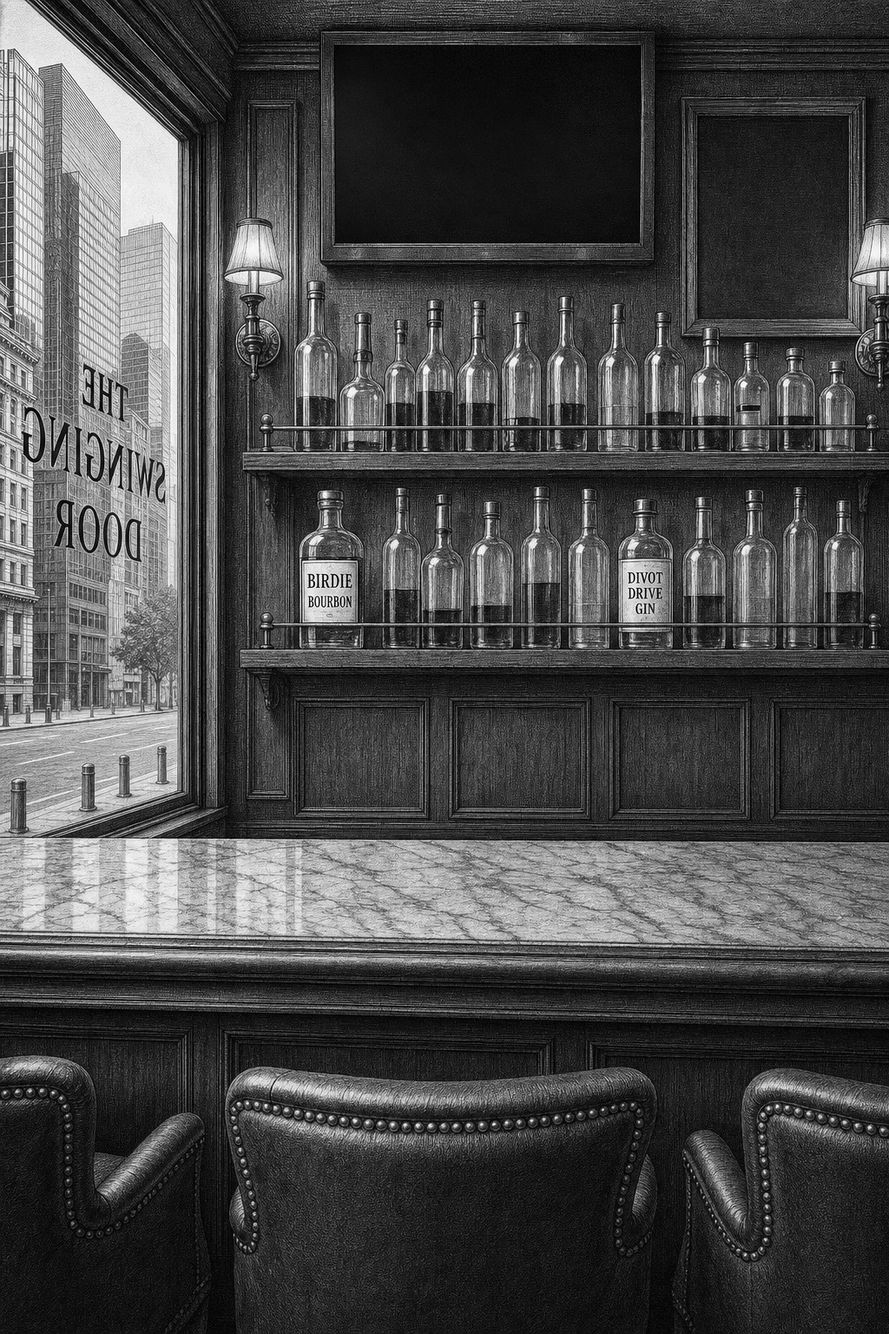
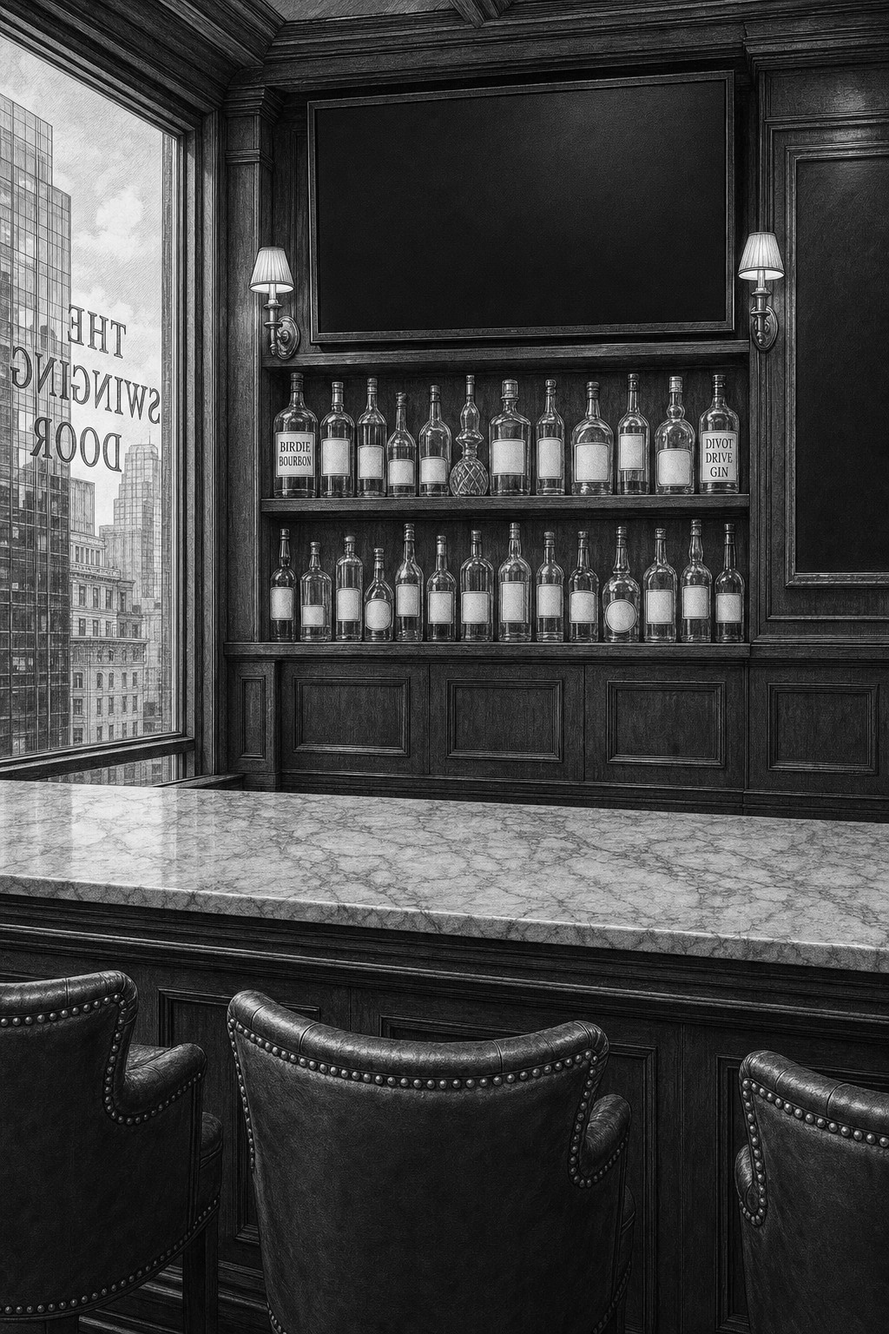
canon: a real 42-inch bar, a bigger television, and a view above the street
Operator rulings from the knockout-1 review, applied to the fences and drawn
into a regenerated set plate:

- THE BAR HEIGHT: the marble crosses each seated gentleman at MID-CHEST, a
  hand's width below the bow tie — a counter at the waist means the room was
  drawn too low, and that is a redraw.
- THE TELEVISION: a LARGE flatscreen, the widest single thing on the back
  wall, spanning the back bar's central bay.
- THE WINDOW: the view begins ABOVE the street floor — building faces only,
  no pavement, no sidewalk, no bollards.
- canon/vision/staging-plate.jpg regenerated from the updated fence text
  (text-only, no old-plate conditioning) and locked to the winner.
- Element bibles (BAR-COUNTER, TELEVISION, WINDOW) record the rulings.

Every canon addition funded by trims; prompt stays under the 30,500 guard;
18/18 assembly checks pass.

diff --git a/canon/MASTER-PROMPT.md b/canon/MASTER-PROMPT.md
@@ -23,9 +23,9 @@ documents disagree, the Harrington vision wins; below it, the authority ladder i
 ```text
 A single-panel gag cartoon drawn like an antique steel engraving: fine pen crosshatching and stippling on every surface — wood grain, knit stitches, fur and feathers laid in individual strokes, glass catching light — with a full tonal range from deep rich blacks through silvery greys to bright paper highlights. Confident contour lines over the hatching. The panel is composed full, corner to corner, and rewards a second look. Black-and-white only; no flat fills, no cel shading, no photographic rendering, no color.
 
-THE ROOM. Inside The Swinging Door: upscale, current, ground-floor, a block off Wall Street, never a dive; polished MARBLE bar top, fine walnut-paneled walls, warm brass, good glassware, handsome furniture: leather armchairs and studded club chairs. ONE LARGE MODERN WINDOW fills the street wall at frame-left — a single tall sheet of clear plate glass, NO small panes, NO muntin bars, NO frosting. Through it, PRESENT-DAY NEW YORK CITY: glass-and-steel towers over older stone facades, a modern street, daylight, and NO people outside. The bar's name is mirrored on the glass as read from inside, SPELLED LETTER BY LETTER — T-H-E S-W-I-N-G-I-N-G D-O-O-R, both G's present; nothing else is lettered on or beyond the glass. Proud back bar of distinct bottle shapes, the SAME collection every day, and the bottles are VISIBLY FILLED TO DIFFERENT LEVELS — some near full, some half, a few low, the liquid line showing through the glass; a row of identical empty bottles is a redraw. EVERY BOTTLE WEARS A SMALL PLAIN PAPER LABEL, and every label except two is BLANK — an empty label-shaped panel with no words, no marks, no fine print. ONLY THE EXACTLY TWO BOTTLES ON THE WHOLE SHELF ARE LETTERED. COUNT THEM: TWO. The left one reads BIRDIE BOURBON and the right one reads DIVOT DRIVE GIN, each name on its own bottle, each large enough to read at a glance, and both standing clear of every head, shoulder and glass with nothing overlapping them. A third lettered bottle, or a repeated name, is a redraw. Shelving: SERVICE side, never drawn behind the gentlemen (see THE BAR IS ONE LEVEL); on the gentlemen's side of the room a bottle appears ONLY in Abby's hand or set down on the marble by her. THE ONLY CHARACTERS IN THE ROOM ARE THIS CARTOON'S CAST; Abby the ONLY bartender, the only other character who ever appears. NO other figures anywhere in the bar, OF ANY SPECIES: no other customers, no staff, none in the mirror; no second dog or bird invented to fill a gap — the room behind the cast is furniture, bottles, panelling and signage only. Single exception in the whole strip: the TELEVISION SCREEN, human beings may appear, broadcast footage. Covers pictures as well as people: no human figure in the room, picture frame or hat included; framed prints on the panelling and any emblem on clothing are NON-FIGURATIVE: architecture, landscape, animals, still life, a ship, a bull, a bottle. On the CAST no emblem at all: no badge, crest, monogram, logo or device on cap, visor, polo, vest, jacket. Barclay's flag pin is the ONLY thing worn on anyone's clothing in this strip.
+THE ROOM. Inside The Swinging Door: upscale, current, a block off Wall Street, never a dive; polished MARBLE bar top, fine walnut-paneled walls, leather armchairs and studded club chairs. ONE LARGE MODERN WINDOW fills the street wall at frame-left — a single tall sheet of clear plate glass, NO small panes, NO muntin bars, NO frosting. Through it, PRESENT-DAY NEW YORK CITY at bar height: building faces, glass-and-steel over older stone, daylight — the view begins ABOVE the street floor, so NO pavement, NO roadway, NO sidewalk, NO bollards and NO people are visible through the glass. The bar's name is mirrored on the glass as read from inside, SPELLED LETTER BY LETTER — T-H-E S-W-I-N-G-I-N-G D-O-O-R, both G's present; nothing else is lettered on or beyond the glass. Proud back bar of distinct bottle shapes, the SAME collection every day, and the bottles are VISIBLY FILLED TO DIFFERENT LEVELS — some near full, some half, a few low, the liquid line showing through the glass; a row of identical empty bottles is a redraw. EVERY BOTTLE WEARS A SMALL PLAIN PAPER LABEL, and every label except two is BLANK — an empty label-shaped panel with no words, no marks, no fine print. ONLY THE EXACTLY TWO BOTTLES ON THE WHOLE SHELF ARE LETTERED. COUNT THEM: TWO. The left one reads BIRDIE BOURBON and the right one reads DIVOT DRIVE GIN, each name on its own bottle, each large enough to read at a glance, and both standing clear of every head, shoulder and glass with nothing overlapping them. A third lettered bottle, or a repeated name, is a redraw. Shelving: SERVICE side, never drawn behind the gentlemen (see THE BAR IS ONE LEVEL); on the gentlemen's side of the room a bottle appears ONLY in Abby's hand or set down on the marble by her. THE ONLY CHARACTERS IN THE ROOM ARE THIS CARTOON'S CAST; Abby the ONLY bartender, the only other character who ever appears. NO other figures anywhere in the bar, OF ANY SPECIES: no other customers, no staff, none in the mirror; no second dog or bird invented to fill a gap — the room behind the cast is furniture, bottles, panelling and signage only. Single exception in the whole strip: the TELEVISION SCREEN, human beings may appear, broadcast footage. Covers pictures as well as people: no human figure in the room, picture frame or hat included; framed prints on the panelling and any emblem on clothing are NON-FIGURATIVE: architecture, landscape, animals, still life, a ship, a bull, a bottle. On the CAST no emblem at all: no badge, crest, monogram, logo or device on cap, visor, polo, vest, jacket. Barclay's flag pin is the ONLY thing worn on anyone's clothing in this strip.
 
-The TV and the chalkboard are OPTIONAL, shown only when they serve THIS cartoon and only on its subject. THE TELEVISION'S FRAME AND SURROUND ARE BARE BLACK PLASTIC WITH NOTHING WRITTEN ON THEM ANYWHERE — no brand, badge, plate or bezel glyphs. IT IS A TELEVISION AND IT IS SWITCHED ON — a wall-mounted flatscreen in a narrow black bezel showing live footage, never a framed print, poster or notice on the panelling. No CNBC bug and no chyron band means it is not a television, and the panel is wrong. The flatscreen over the back bar carries full broadcast grammar: CNBC network bug with LIVE tag, bold-caps headline chyron on a lower-third band, time stamp at right edge. THERE IS NO SECOND LINE OF TEXT ON THE SCREEN — no ticker, no crawl, no strapline under the chyron; the chyron carries every word the screen says and reads [TV]. THE PICTURE ILLUSTRATES THAT VERY HEADLINE: invent the footage this story would actually show, in the same engraved style. Never repeat a picture from a reference image. COUNT THE WORDS INSIDE THE TELEVISION PICTURE: ZERO. The footage itself carries NO lettering anywhere — not on a sign, a shopfront, a licence plate, a road sign, a carton, a label, a receipt, a chart axis, a seat back, a screen or a vehicle; where the scene would carry writing, DRAW THAT SURFACE BLANK. A chalkboard carries menu-shaped jokes in hand-lettered chalk serifs reading exactly and only: [BOARD]. THE BOARD PRICES THE JOKE — it NEVER urges drinking hard, fast or often. All lettering is REAL, correctly spelled English, cleanly drawn, easily readable at a glance — never scribbled, garbled, invented filler, repeated words, or lettering the scene did not ask for. THERE IS A SIZE BELOW WHICH NOTHING IS LETTERED AT ALL: if a word would be drawn smaller than the height of a character's eye, IT IS NOT DRAWN — that surface is completely blank, plain and unmarked. It governs every small object — club faces, watch dials, nameplates, bottle caps, clock numerals. Marks that merely LOOK like writing come back as broken glyphs: a blank club face is correct, a scribbled one a redraw. A PRINTED PROP — bill, receipt, folio, statement, form, slip, menu, boarding pass — CARRIES AT MOST FOUR LINES OF TEXT, each large enough to read at a glance, named by this brief; the rest is BLANK WHITE. There is no fine print in this strip: a receipt with rows of illegible marks is a redraw. AND NOTHING PRINTED LIES ON THE MARBLE: no note card, no slip, no loose receipt, no card reader on the bar top — a printed prop appears ONLY when this brief names one, and then it is held UP IN A HAND, large enough to read. AND NOTHING IS TAGGED: no price tag, swing tag, sticker or ticket hangs from any glass, stem, bottle or held object. Shared nut bowl, napkins, coasters on the marble.
+The TV and the chalkboard are OPTIONAL, shown only when they serve THIS cartoon and only on its subject. THE TELEVISION'S FRAME AND SURROUND ARE BARE BLACK PLASTIC WITH NOTHING WRITTEN ON THEM ANYWHERE — no brand, badge, plate or bezel glyphs. IT IS A TELEVISION AND IT IS SWITCHED ON — a LARGE wall-mounted flatscreen, the WIDEST single thing on the back wall, spanning the back bar's central bay in a narrow black bezel, showing live footage, never a framed print or notice. No CNBC bug and no chyron band means it is not a television, and the panel is wrong. The flatscreen over the back bar carries full broadcast grammar: CNBC network bug with LIVE tag, bold-caps headline chyron on a lower-third band, time stamp at right edge. THERE IS NO SECOND LINE OF TEXT ON THE SCREEN — no ticker, no crawl, no strapline under the chyron; the chyron carries every word the screen says and reads [TV]. THE PICTURE ILLUSTRATES THAT VERY HEADLINE: invent the footage this story would actually show, in the same engraved style. Never repeat a picture from a reference image. COUNT THE WORDS INSIDE THE TELEVISION PICTURE: ZERO. The footage itself carries NO lettering anywhere — not on a sign, a shopfront, a licence plate, a road sign, a carton, a label, a receipt, a chart axis, a seat back, a screen or a vehicle; where the scene would carry writing, DRAW THAT SURFACE BLANK. A chalkboard carries menu-shaped jokes in hand-lettered chalk serifs reading exactly and only: [BOARD]. THE BOARD PRICES THE JOKE — it NEVER urges drinking hard, fast or often. All lettering is REAL, correctly spelled English, cleanly drawn, easily readable at a glance — never scribbled, garbled, invented filler, repeated words, or lettering the scene did not ask for. THERE IS A SIZE BELOW WHICH NOTHING IS LETTERED AT ALL: if a word would be drawn smaller than the height of a character's eye, IT IS NOT DRAWN — that surface is completely blank, plain and unmarked. It governs every small object — club faces, watch dials, nameplates, bottle caps, clock numerals. Marks that merely LOOK like writing come back as broken glyphs: a blank club face is correct, a scribbled one a redraw. A PRINTED PROP — bill, receipt, folio, statement, form, slip, menu, boarding pass — CARRIES AT MOST FOUR LINES OF TEXT, each large enough to read at a glance, named by this brief; the rest is BLANK WHITE. There is no fine print in this strip: a receipt with rows of illegible marks is a redraw. AND NOTHING PRINTED LIES ON THE MARBLE: no note card, no slip, no loose receipt, no card reader on the bar top — a printed prop appears ONLY when this brief names one, and then it is held UP IN A HAND, large enough to read. AND NOTHING IS TAGGED: no price tag, swing tag, sticker or ticket hangs from any glass, stem, bottle or held object. Shared nut bowl, napkins, coasters on the marble.
 
 THE STAGE. The staging is physically real. A bar scene is CROPPED AT THE COUNTER: the picture ends at the marble or the panelling just below it, exactly as the plates crop it. Nothing below the counter is ever in frame: no legs, no knees, no thighs, no feet, no shoes, no stool seats, no stool legs, no footrests, no floor. The two gentlemen: close in, roughly the chest up, composed exactly as the reference plates; Abby, when cast, is set BACK beyond the slab. Every face: THREE-QUARTER view, angled into frame so face and both eyes are fully visible — the gentlemen are SEEN FROM BEHIND from the customer side, yet each face turns into frame; never a full back of a head, never a head cranked round to face the camera. COUNT THE EYES. BARCLAY AND ABBY have BOTH EYES DRAWN ON THE PAPER, the FAR eye AT LEAST HALF THE WIDTH of the near one, bridge of muzzle showing between them — their faces are broad and carry the turn, and one eye hidden behind the muzzle is a redraw on either. THE FIX IS IN THE SEATING, NOT THE NECK: turn the body further round on its chair until the far eye reappears. DREW IS THE EXCEPTION AND HE KEEPS HIS PROFILE. A flamingo's skull is narrow and his bill is long, so a three-quarter view crowds the bill across his face; he may show ONE eye, and it is the MOST FULLY MODELLED THING ON HIS HEAD — a clear round iris, a distinct pupil, one catchlight, a defined upper lid with a crease and a soft lower lid, never a flat bead. His head still turns toward whoever he is with. NOBODY LOOKS OUT OF THE PANEL AT THE READER. Every gaze stays in the scene. A figure staring straight down the lens is a redraw. BARCLAY HAS ABSOLUTELY NO TAIL. No caption, dialogue line, speech balloon or typeset band is ever drawn above or below the art: the panel is the drawing only, the house sets words afterwards. NOBODY IS WEARING THEIR OWN SKIN: feathers and fur GROW OUT OF them, never drawn as a garment — no cuff, hem, seam, shoulder line, lapel edge or closing line anywhere in plumage or coat, and a second line crossing Drew's arm below his vest's armhole reads as a jacket sleeve and the panel is wrong. Never a wingtip or a fan of long primaries for a hand: long wing feathers belong on Drew's BACK and SIDES, end at his hip, never run down the arm. On Barclay's coat and Abby's clothes fur meets cloth at the garment's own edge, nowhere else.
 
@@ -35,9 +35,9 @@ THE BAR IS ONE LEVEL. COUNT THE HORIZONTAL MARBLE SURFACES: EXACTLY ONE — a si
 
 THE SEATING IS THE SAME EVERY DAY: studded oxblood leather club chairs with brass nailheads along their backs. At most the top of a chair back shows behind each gentleman's own back at the frame's edge — never a seat, never a stool leg.
 
-THE BAR HEIGHT IS FIXED, AND NOBODY MERGES INTO IT. The marble stands at each seated gentleman's MID-CHEST height in every cartoon — shoulders, upper chest and both arms CLEAR ABOVE it, forearms resting ON TOP with the hands visible, his body blocking its near edge from the camera; no shoulder, chest or sleeve dissolves into the counter, and nobody is jammed or wedged into the slab.
+THE BAR HEIGHT IS FIXED, AND IT IS A TALL BAR — a real 42-inch counter, chest-high on a seated man. The marble's top edge crosses each gentleman at MID-CHEST, a hand's width below the bow tie, NEVER at his waist or belt: a counter crossing at the waist means the whole room was drawn too low, and that is a redraw. They sit HIGH at it, shoulders and arms clear above the slab, forearms resting ON TOP with the hands visible, each body blocking its near edge from the camera; no shoulder or sleeve dissolves into the counter, nobody jammed or wedged.
 
-THE SIDES — absolute, and the thing this strip gets wrong most often. THE PROHIBITIONS FIRST: EXACTLY ONE counter, never a second counter or table and never a nearer surface invented for the drinks; and the BACK BAR — bottles, mirror, television, chalkboard — stands ACROSS THE COUNTER on the FAR SERVICE SIDE with an EMPTY WALKWAY between the slab's far edge and its shelves — the shelves NEVER rise from the counter's edge and NEVER behind a gentleman's head. THE CAMERA is on the CUSTOMER SIDE, just behind and above the two gentlemen, looking ACROSS the one counter — one long slab of marble running LEFT TO RIGHT out of frame at both ends, never a wedge, never an island — to that back bar. DREW AND BARCLAY SIT AT ITS NEAR SIDE, close and large, SEEN FROM BEHIND and TURNED TOWARD EACH OTHER so each face reads in THREE-QUARTER over his own shoulder. THE GENTLEMEN ARE BETWEEN THE CAMERA AND THE COUNTER: each man's body BLOCKS the slab's near edge where he sits, so the marble shows only BETWEEN and BESIDE them at chest height — NEVER as an unbroken strip crossing in front of their chests. A gentleman the counter passes IN FRONT OF is standing in the bartender's place, and that is a redraw. AND WHEN ABBY IS NOT NAMED, THE FAR SERVICE SIDE HOLDS NO ONE: the back bar still stands across the counter behind it, but no bartender, no server, no barback, no second dog, no figure polishing a glass. COUNT THE FIGURES BEFORE YOU DRAW ANY OF THEM: this panel contains the characters this brief names and NOBODY ELSE, and inventing someone on the service side is a redraw.
+THE SIDES — absolute, and the thing this strip gets wrong most often. THE PROHIBITIONS FIRST: EXACTLY ONE counter, never a second counter or table and never a nearer surface invented for the drinks; and the BACK BAR — bottles, mirror, television, chalkboard — stands ACROSS THE COUNTER on the FAR SERVICE SIDE with an EMPTY WALKWAY between the slab's far edge and its shelves — the shelves NEVER rise from the counter's edge and NEVER behind a gentleman's head. THE CAMERA is on the CUSTOMER SIDE, just behind and above the two gentlemen, looking ACROSS the one counter — one long slab of marble running LEFT TO RIGHT out of frame at both ends, never a wedge, never an island — to that back bar. DREW AND BARCLAY SIT AT ITS NEAR SIDE, close and large, SEEN FROM BEHIND and TURNED TOWARD EACH OTHER so each face reads in THREE-QUARTER over his own shoulder. THE GENTLEMEN ARE BETWEEN THE CAMERA AND THE COUNTER: each man's body BLOCKS the slab's near edge where he sits, so the marble shows only BETWEEN and BESIDE them at chest height — NEVER as an unbroken strip crossing in front of their chests. A gentleman the counter passes IN FRONT OF is standing in the bartender's place, and that is a redraw. AND WHEN ABBY IS NOT NAMED, THE FAR SERVICE SIDE HOLDS NO ONE — no bartender, no server, no second dog, no figure polishing a glass. COUNT THE FIGURES BEFORE YOU DRAW ANY OF THEM: this panel contains the characters this brief names and NOBODY ELSE, and inventing someone on the service side is a redraw.
 
 NEAREST THE READER, DREW AND BARCLAY, SEATED AT THE COUNTER AND TURNED TOWARD EACH OTHER, seen FROM BEHIND from the customer side: Drew frame-LEFT, Barclay frame-RIGHT, each body turned only a quarter toward the other so the reader catches his face in THREE-QUARTER over his own shoulder. His own back and hip COVER the counter's near edge where he sits; the marble reaches the camera only beside and between the two of them, and the back bar stands far ACROSS it — never at his back. The BODY does the turning, so Barclay's far eye lands on the paper with no crank in his neck; Drew keeps his one-eyed profile, his head turned toward Barclay so the bill angles ACROSS the picture. Each man's chest still angles toward the marble, both forearms resting ON it and his drink on the slab in front of him, chest and shoulders rising CLEAR ABOVE its near edge. Nobody sits or perches ON the slab, and nobody hangs back from the bar he is drinking at.
 
@@ -55,7 +55,7 @@ HIS BILL IS SLENDER AND IT DOES NOT BREAK. It leaves the face tucked and close, 
 
 He is FAR MORE FLAMINGO THAN HUMAN — plump, soft-bodied and FEATHERED ALL OVER in fine dash-strokes: breast, shoulders, back and arms, with long scalloped wing-feathers beneath each forearm. No human skin, torso, musculature or face anywhere; he is a bird who happens to sit at a bar. His neck is thick at the shoulders and rises in the deep question-mark sweep of a true flamingo, turning over at the top so the head hangs forward of where the neck left the body. His eyes are heavy-lidded and deadpan — visible white, distinct dark iris and pupil, a drooping upper lid and one fine contour line above it — never a bird dot. His face is AMIABLE: plump, softly modelled cheeks and a faint smile-line, a man who has heard it before and is fond of you anyway; never gaunt, hollow-eyed, sunken or sinister.
 
-NO HAND IN THIS PANEL HAS A NAIL ON IT. Not Drew's, not Barclay's, not Abby's: every fingertip in the picture ends BLUNT AND SOFT in fur, plumage or pad, and a drawn nail, claw, talon or crescent at any fingertip is a redraw wherever it appears. THE ONLY HUMANLIKE THING ABOUT HIM IS HIS HANDS. Each feathered arm ends in a genuine hand — four slender fingers and an opposed thumb, feather-covered to the tips, elegant on a martini stem. WHITE PLUMAGE RUNS UNBROKEN FROM SHOULDER TO FINGERTIP: no sleeve, no cuff, no hem, no seam anywhere on the arm, and nothing smooth or bare-skinned anywhere on him. A crisp starched WHITE collar band circles the base of his neck and his small solid-black silk bow tie sits at the throat in front of it. DRAW THE TIE AS A TIED BOW: TWO wings of equal size spreading left and right, each wider at its outer edge, pinched to a SMALL CENTRE KNOT; horizontal, level, centred under the chin, resting ON the collar. Never one lump, never a knotless butterfly, never tilted, never more than two wings. THE BOW IS THE ONLY BLACK AT HIS NECK — no band, ribbon, strap, cord or choker runs around it or behind the bow. He wears a V-neck knitted sweater vest in fine honeycomb stitch with ribbed edges over a pale collared shirt, and trousers; THE VEST IS PLAIN KNIT WITH NO POCKETS ANYWHERE — none on the front, and never a pocket, flap or panel on the back. His plumage is pale but hatched — fine dash-strokes over white, high midtone rather than bare paper. At the bar his martini is always within reach: conical stemmed glass, ONE olive on ONE pick, on a napkin or coaster, held by the stem when lifted. His seat is frame-left, neck arched so his face hangs where the gag needs it. WHEN THIS SCENE HAS DREW SPEAKING his bill is SLIGHTLY PARTED, caught mid-word — never a clamped-shut bill on the one who is talking. At golf he adds a visor; a monocle is an approved occasional accessory.
+NO HAND IN THIS PANEL HAS A NAIL ON IT. Not Drew's, not Barclay's, not Abby's: every fingertip in the picture ends BLUNT AND SOFT in fur, plumage or pad, and a drawn nail, claw, talon or crescent at any fingertip is a redraw wherever it appears. THE ONLY HUMANLIKE THING ABOUT HIM IS HIS HANDS. Each feathered arm ends in a genuine hand — four slender fingers and an opposed thumb, feather-covered to the tips, elegant on a martini stem. WHITE PLUMAGE RUNS UNBROKEN FROM SHOULDER TO FINGERTIP: no sleeve, no cuff, no hem, no seam anywhere on the arm, and nothing smooth or bare-skinned anywhere on him. A crisp starched WHITE collar band circles the base of his neck and his small solid-black silk bow tie sits at the throat in front of it. DRAW THE TIE AS A TIED BOW: TWO wings of equal size spreading left and right, each wider at its outer edge, pinched to a SMALL CENTRE KNOT; horizontal, level, centred under the chin, resting ON the collar. Never one lump, never tilted, never more than two wings. THE BOW IS THE ONLY BLACK AT HIS NECK — no band, ribbon, strap, cord or choker runs around it or behind the bow. He wears a V-neck knitted sweater vest in fine honeycomb stitch with ribbed edges over a pale collared shirt, and trousers; THE VEST IS PLAIN KNIT WITH NO POCKETS ANYWHERE — none on the front, and never a pocket, flap or panel on the back. His plumage is pale but hatched — fine dash-strokes over white, high midtone rather than bare paper. At the bar his martini is always within reach: conical stemmed glass, ONE olive on ONE pick, on a napkin or coaster, held by the stem when lifted. His seat is frame-left, neck arched so his face hangs where the gag needs it. WHEN THIS SCENE HAS DREW SPEAKING his bill is SLIGHTLY PARTED, caught mid-word — never a clamped-shut bill on the one who is talking. At golf he adds a visor; a monocle is an approved occasional accessory.
 
 BARCLAY. A successful gentleman in his mid-forties, unmistakably a golden retriever, drawn like one (canon/vision/barclay-reference.jpg is the definitive study): fur layered in fine individual strokes, drop ears with long fringe, broad soft-eyed retriever face, freckled muzzle, true black dog lips, dark lip-line along the muzzle from under his black nose, chest ruff modest, never a heavy neck-beard; middle-aged, solid, rounded shoulders, modest belly, absolutely no tail. HIS MOUTH IS CLOSED IN EVERY PANEL — never hanging open, never panting, never a visible tongue, never bared teeth. Default read: worried, earnest everyman against Drew's deadpan — BUT HE IS NOT SAD, and the first glance must not read as sad. Worry in the BROWS ONLY: raised inner brows, faint forehead wrinkle. Below the brows all WARM: mouth corners gently UP into a soft closed-lip smile, eyes bright and open, a clear catchlight in each, cheeks full and lifted. Read: a good-humoured man a little concerned, never a downcast one: mouth up, brows up, eyes bright. Hands visibly a dog's: broad, fur-backed, soft-padded fingers, NO NAILS OR CLAWS DRAWN AT ALL, each fingertip ending in soft fur and pad, never in a nail, yet fully humanoid in articulation: four fingers and an opposed thumb, believable human grips. At the bar, his dark suit jacket over a pale open-collared shirt, no tie; for daytime, travel, golf, a pale collared polo, dark leather belt, (outdoors) a ball cap; at golf his bag stands at frame-right, towel on its front hand-lettered in three lines FORE! / NOT SO / FAST. The small USA flag pin is PERMANENT: left lapel when jacketed, left chest of shirt or polo otherwise; on whatever he wears. A wristwatch on his left wrist in every panel EXCEPT at golf: a white golf glove on his left hand takes its place on that same wrist, smooth, unfurred to the cuff, forearm above it still furred; the watch and the glove are never both drawn, never on opposite sides of him. IN A BAR PANEL his old fashioned (short rocks glass, one large cube, one dark cherry) rests flat at frame-right, the shared bowl of bar nuts between the two drinks; AWAY FROM THE BAR he brings neither, whatever he holds belongs to the place he is in.
 

diff --git a/canon/settings/elements/WINDOW.md b/canon/settings/elements/WINDOW.md
@@ -12,7 +12,12 @@ the same window, showing the same city, in every bar cartoon.
 - **Through it: present-day New York City.** The strip is set TODAY. Glass-
   and-steel towers over older stone facades, a modern street — contemporary,
   unmistakably NYC, drawn in the same engraved hand.
-- **Nobody outside.** The street carries architecture and daylight, never
+- **The view begins ABOVE the street floor.** The bar sits high enough that
+  the glass shows building faces and daylight only — **no pavement, no
+  roadway, no sidewalk, no bollards, no street furniture**. If the street
+  floor is visible through the window, the room was drawn too low. (Operator
+  ruling 2026-09-01.)
+- **Nobody outside.** The view carries architecture and daylight, never
   people (the television screen remains the strip's only place for humans).
 - **The one mark it carries:** the bar's name mirrored on the glass as read
   from inside, spelled letter by letter — T-H-E S-W-I-N-G-I-N-G D-O-O-R, both

diff --git a/canon/settings/elements/BAR-COUNTER.md b/canon/settings/elements/BAR-COUNTER.md
@@ -10,8 +10,12 @@
   ends run out of frame.
 - **One level.** No raised rail, no upper drink shelf, no second tier, no
   step. Everything on the bar stands on the one surface.
-- **Height:** the marble stands at each seated gentleman's mid-chest —
-  shoulders and arms clear above it, forearms resting on top.
+- **Height:** a real 42-inch bar — TALL. The marble's top edge crosses each
+  seated gentleman at MID-CHEST, a hand's width below the bow tie — shoulders
+  and arms clear above it, forearms resting on top. **A counter crossing at
+  the waist or belt means the whole room was drawn too low, and that is a
+  redraw.** (Operator ruling 2026-09-01: "they look like they are sitting
+  low — the bar needs to be raised up.")
 - **Sides:** Drew and Barclay sit at its NEAR (customer) side, their bodies
   blocking its near edge from the camera; Abby alone works the FAR (service)
   side, its far edge crossing her at the waist. An **empty walkway** always

diff --git a/canon/settings/elements/TELEVISION.md b/canon/settings/elements/TELEVISION.md
@@ -5,8 +5,11 @@ and SHOWS belongs to the day's joke, through two slots and nothing else.
 
 ## The constant part (never changes)
 
-- A wall-mounted flatscreen in a narrow bare black bezel, centred high above
-  the back bar. Nothing written on the frame or surround, ever.
+- A **LARGE** wall-mounted flatscreen in a narrow bare black bezel, centred
+  high above the back bar — **the WIDEST single thing on the back wall,
+  spanning the back bar's central bay**. A modest, furniture-sized set is
+  wrong. (Operator ruling 2026-09-01: "the tv needs to be bigger.") Nothing
+  written on the frame or surround, ever.
 - When it is on: full broadcast grammar — CNBC bug with LIVE tag, ONE
   bold-caps headline chyron on a lower-third band, time stamp. Never a
   ticker, never a second line.
